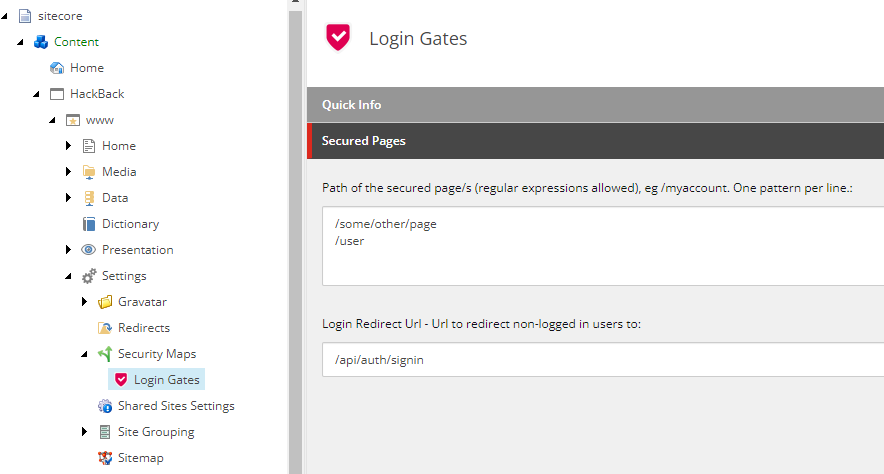
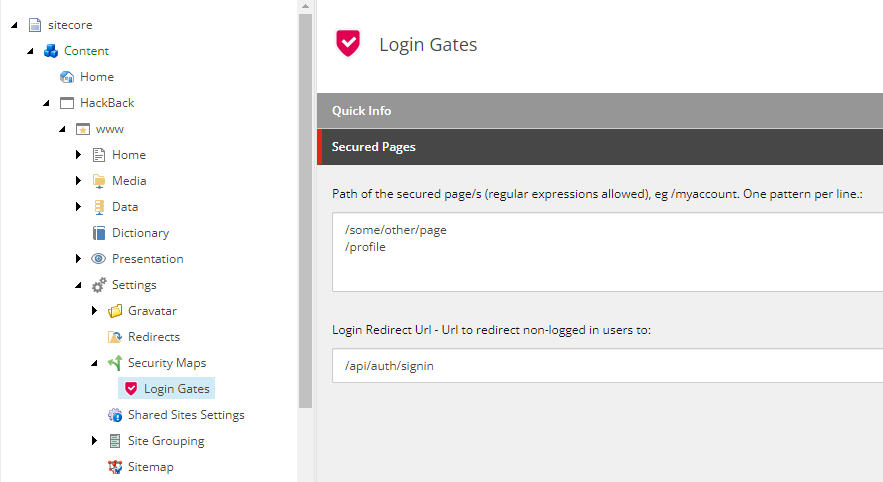
Added screenshot of gated pages config to usage instructions.

Changed region(s): [[0.3058, 0.0, 1.0, 1.0], [0.0, 0.0295, 0.2752, 1.0]]

diff --git a/README.md b/README.md
@@ -32,7 +32,7 @@ This module implements complete implemntation of Authentication and Authorizatio
 - Extending SXA toolbox to include Account related components
 - Integration with Gravatron globaly recognizable avatars ([Link](https://en.gravatar.com/)) which can be further configured to match you'r sites look and feel.
 
-![Different Configurations of Avatars](docs/images/Gravatars.png?raw=true)
+    ![Different Configurations of Avatars](docs/images/Gravatars.png?raw=true)
 
 ## Video link
 ⟹ Provide a video highlighing your Hackathon module submission and provide a link to the video. You can use any video hosting, file share or even upload the video to this repository. _Just remember to update the link below_
@@ -100,24 +100,13 @@ Module allows users to configure their Gravatar options (default image, and rati
 This module allow content authors to lock down specific pages or entire path behind login , to configure that follow these steps:
 1. Open up browser and navigate to https://cm.hackback.localhost/sitecore/shell , login with admin/b
 2. Inside content Editor, navigate to /sitecore/content/HackBack/www/Settings/Security Maps/Login Gates
+![Login Gates config](docs/images/ConfigureSecuredPages.png)
 3. In "Path of the secured page" field, type in the path/s (or regularExpression/s) you want to lock behind login, you can enter multiple lines
 4. in "login Redirect Url" type in "/api/auth/signin" - When users without Authorization attempt to access gated pages they will be redirected here.
 5. Save and publish
 6. To test the newly configured secure path/s, Navigate to https://www.hackback.localhost/, make sure you are logged off
 7. Then navigate to the path you configured, you should be redirect back to login page
     Make sure you created dummy page that match the path you configured
-
->⟹ Provide documentation about your module, how do the users use your module, >where are things located, what do the icons mean, are there any secret >shortcuts etc.
->
->Include screenshots where necessary. You can add images to the `./images` .>folder and then link to them from your documentation:
->
->.![Hackathon Logo](docs/images/hackathon.png?raw=true "Hackathon Logo")
->
->And you can embed external images too:
->
->![Random](https://thiscatdoesnotexist.com/)
->_Remove this subsection if your entry does not require >any configuration that >is not fully covered in the >installation instructions already_
-
 
 - Two components
     User profile components
